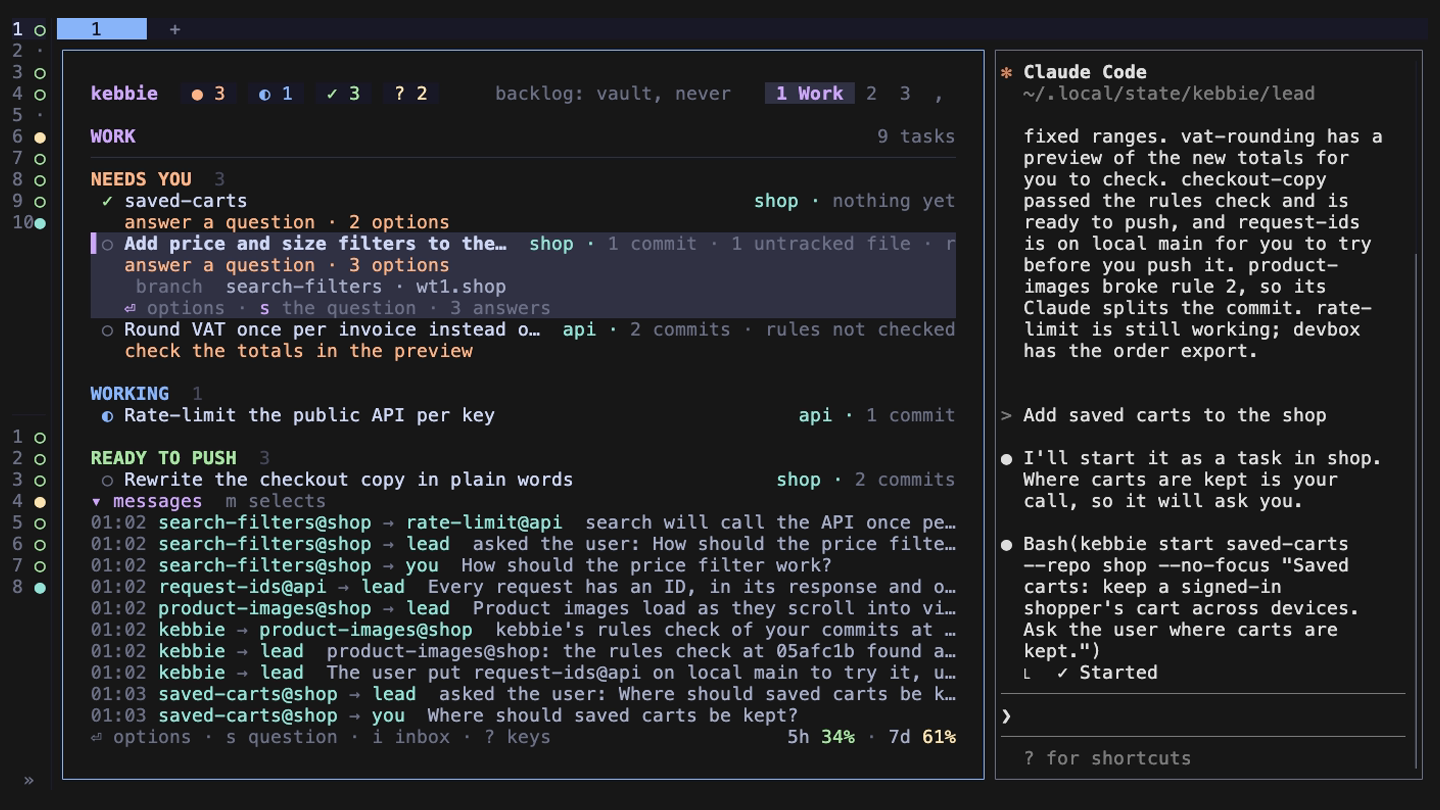
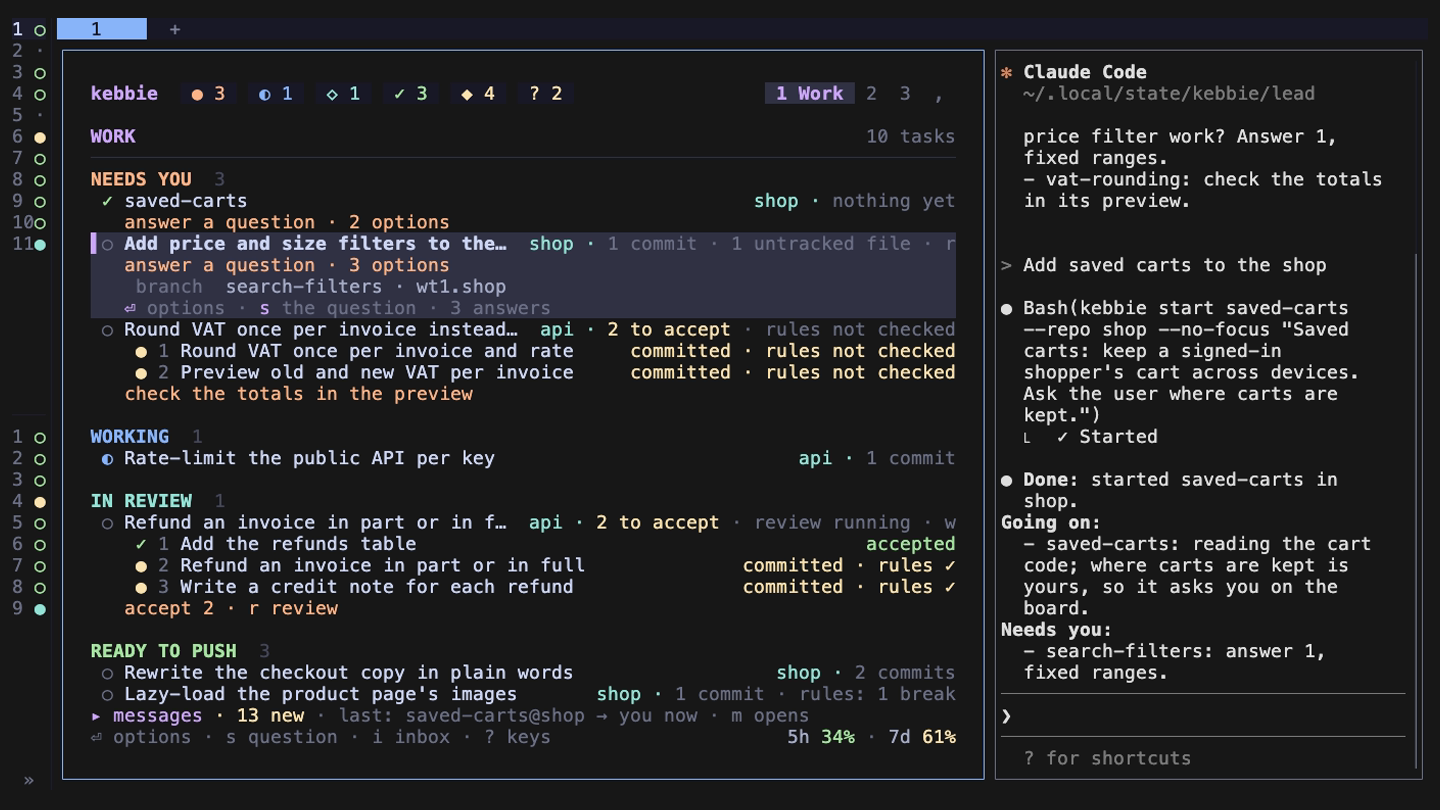
Record the film and clips again on kebbie 0.29
The README film, its stills and every clip predated 0.29. They are
recorded again from the updated demo world, so they show steps under
the rows, the In review group, the review view beside nvim with its
accept, and the lead's three-part answers. The alt texts of the clips
whose content changed say what they show now.

diff --git a/docs/how-to/review-a-task.md b/docs/how-to/review-a-task.md
@@ -2,7 +2,7 @@
 
 Read a task's diff next to its Claude, step by step, and send it comments line by line.
 
-![A comment on a line in the review split, sent to Claude, then the reviewer's rules check](../assets/clips/review-in-nvim.gif)
+![The review view beside Claude: step 1 accepted with a, a line comment on step 2 sent to Claude, then the reviewer's rules check](../assets/clips/review-in-nvim.gif)
 
 1. Select the task on the board and press `r`. A split opens next to Claude: kebbie's view with the task's steps and files on top, the diff in nvim below. It opens on the first step waiting for your accept.
 2. Read the step's commit message, then pick a file with `↑` `↓` or a click. nvim shows its diff at once.

diff --git a/docs/how-to/answer-questions.md b/docs/how-to/answer-questions.md
@@ -2,7 +2,7 @@
 
 Answer the questions your tasks ask through the board, each with options and a recommendation, all in one window.
 
-![Answering a task's question in the inbox; the task builds it and the reviewer passes it](../assets/clips/answer-questions.gif)
+![Answering a task's question in the inbox; the task lists its steps, builds them and the reviewer passes them](../assets/clips/answer-questions.gif)
 
 1. Press `i` on the board. The inbox opens with the waiting questions on the left and the selected question's detail or plan in the middle.
 

diff --git a/docs/how-to/see-your-board-on-your-phone.md b/docs/how-to/see-your-board-on-your-phone.md
@@ -4,7 +4,7 @@ Follow your tasks from your phone through a [kebbie hub](https://github.com/gron
 
 It works on any phone or browser you sign in on with your passkey. The phone reads; you still answer and push on the machine.
 
-![H connects this machine to a hub: a QR code of the link and the code to check on the page](../assets/clips/hub-connect.gif)
+![H connects this machine to a hub: the card with the code to check on the page and the link to open](../assets/clips/hub-connect.gif)
 
 ## What the hub sees
 
